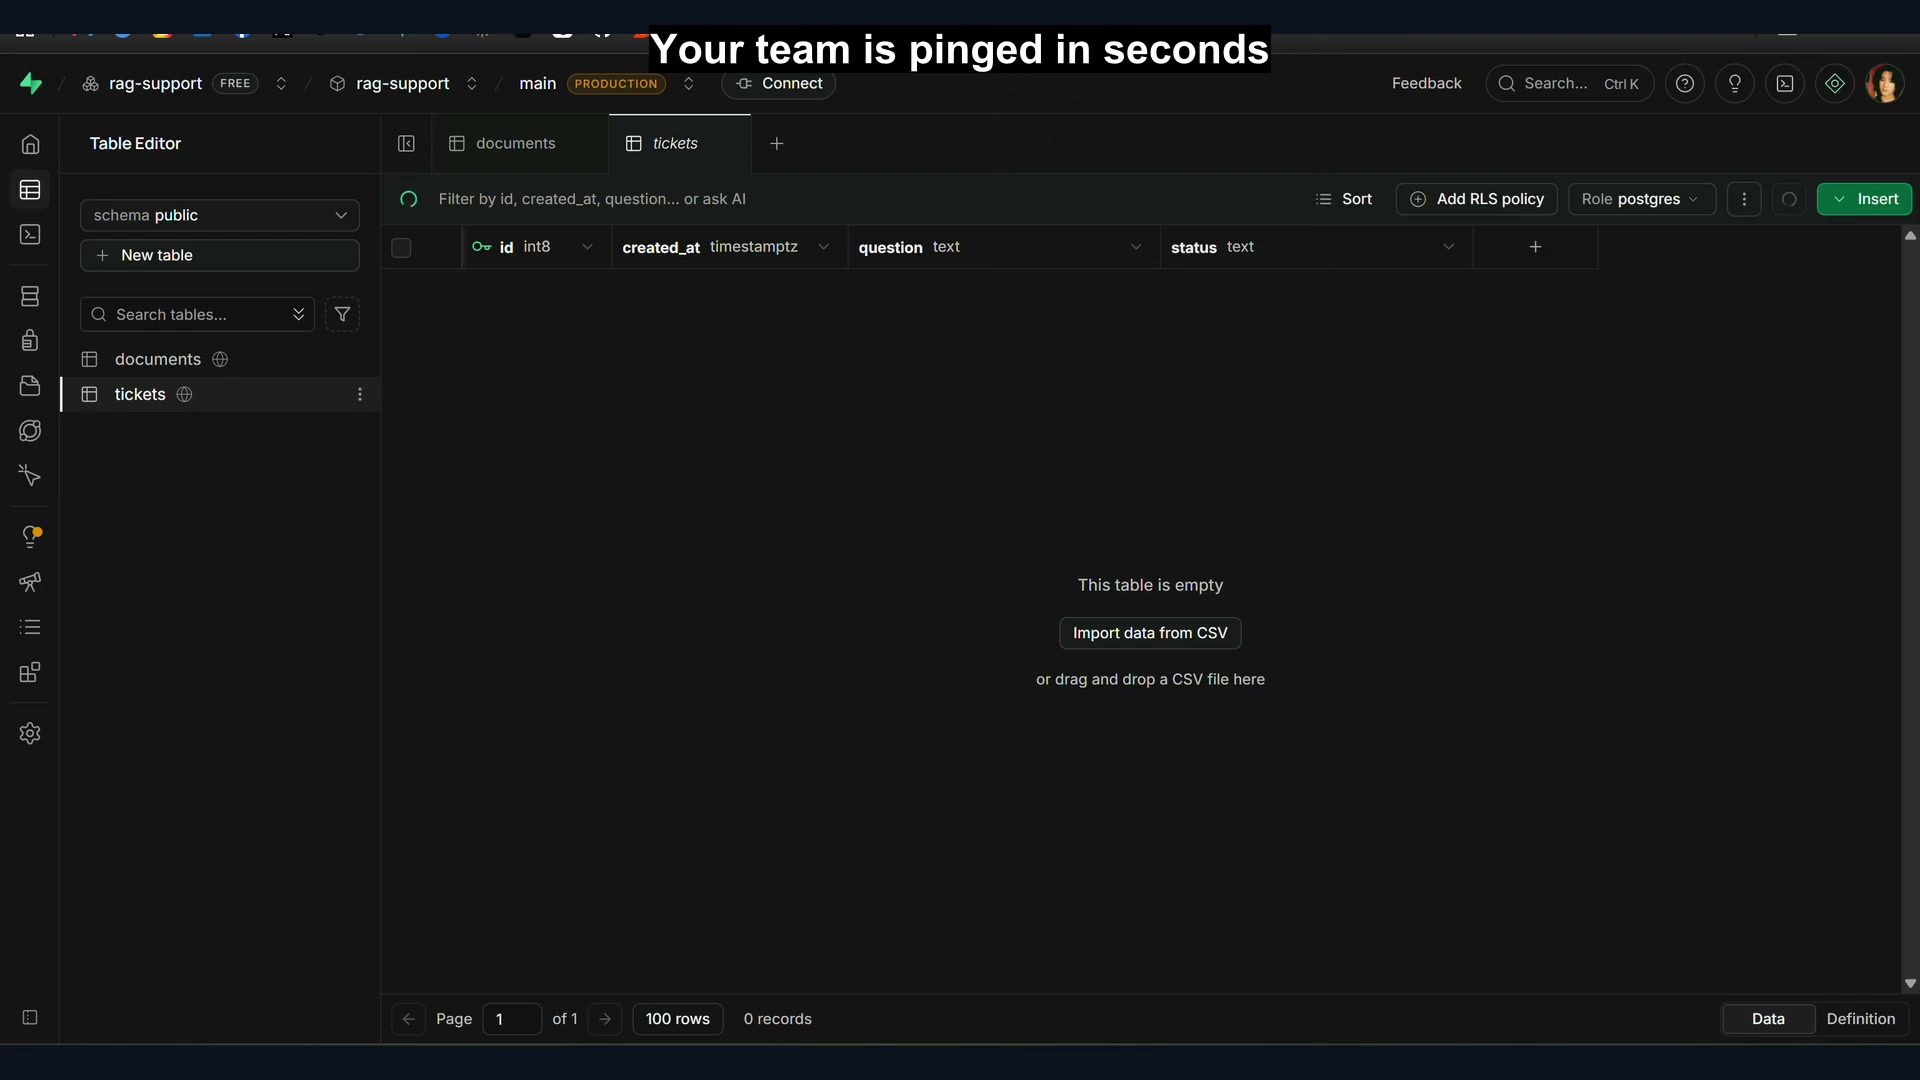
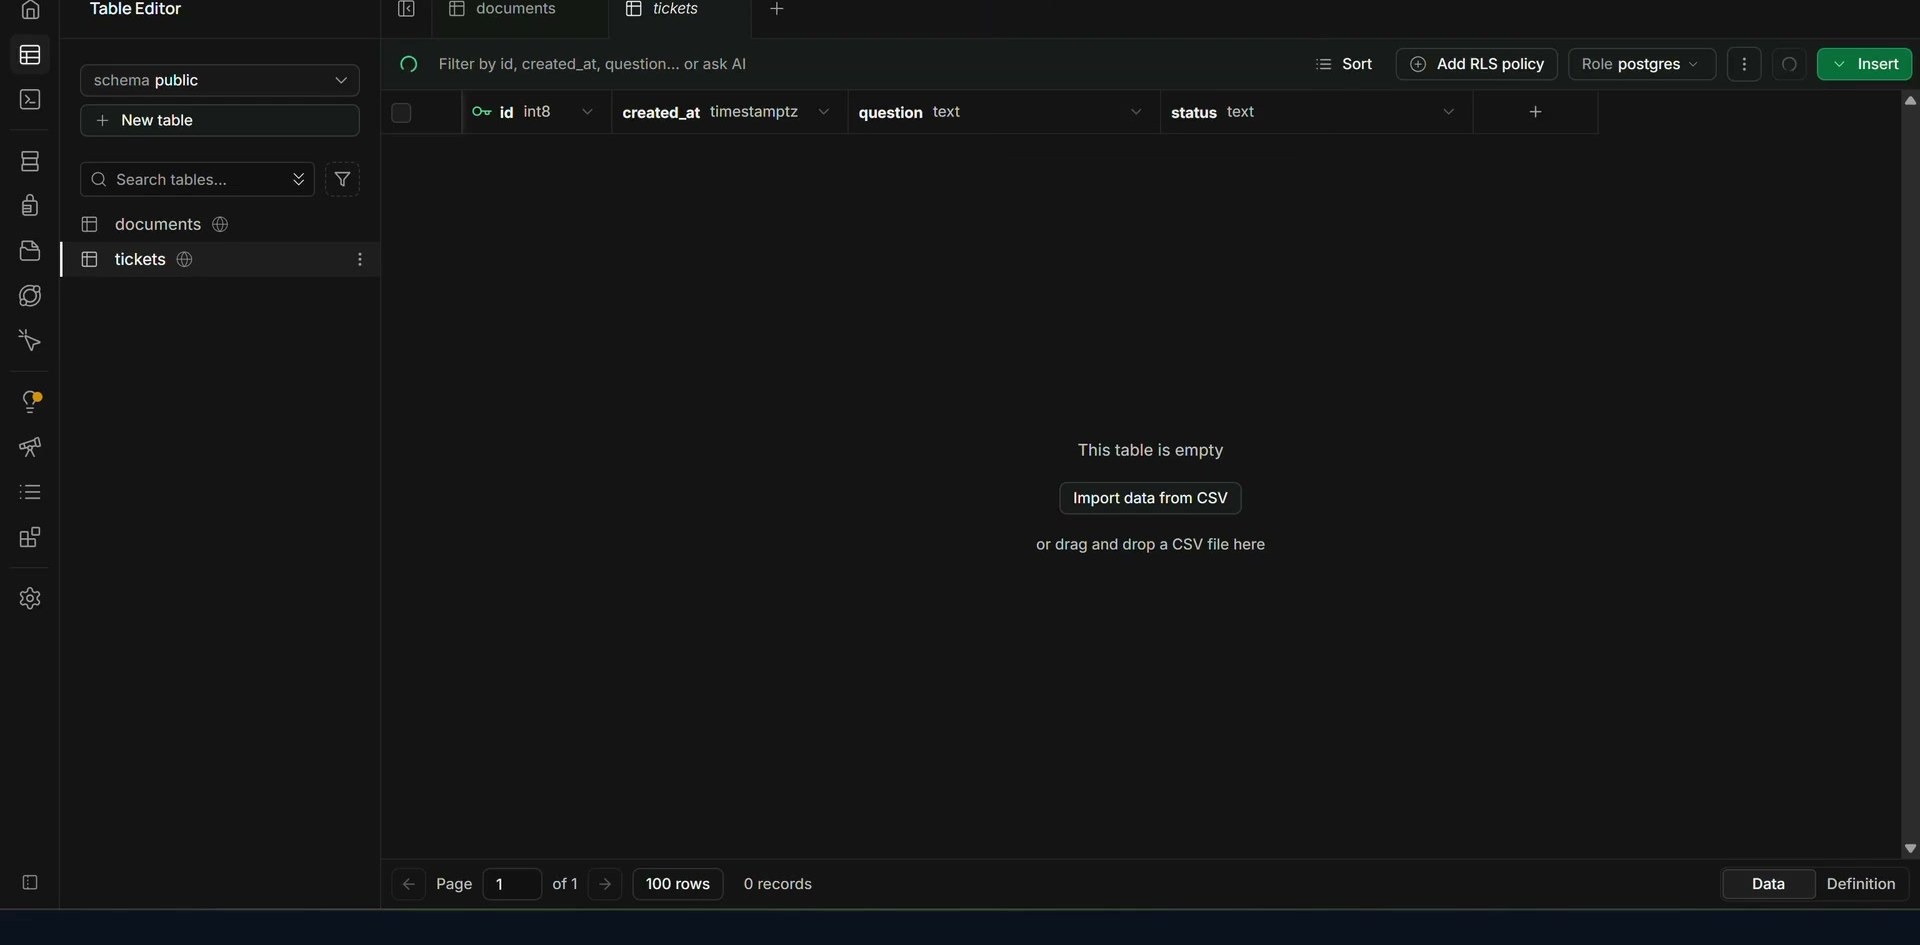
privacy: remove machine paths and identifying content from published docs
The docs are public and quoted real paths from the author's machine, which
leaks the local account name and a recording filename:

  * render.sh no longer hard-codes the ffmpeg directory, the source recording
    or the output directory -- all three come from FF_BIN / SRC / WORK, with
    ffmpeg-on-PATH and the script's own folder as defaults.
  * the QA reports say %LOCALAPPDATA%\n8n and %USERPROFILE%\.n8n instead of
    the literal D:\Tools\n8n and C:\Users\<name>\.n8n.
  * the out-of-KB test question no longer names the university.
  * the two verification screenshots are cropped: the browser chrome with the
    account avatar, and the whole Telegram sidebar with the private chat list,
    are gone. The alert evidence they were taken for is unchanged.

diff --git a/docs/qa-report-2026-09-18.md b/docs/qa-report-2026-09-18.md
@@ -44,7 +44,7 @@ applied during this pass (one of them to a defect introduced by this QA work its
 | In-KB question | **PASS** | "How long does US shipping take?" → "2–4 business days… [faq.md]" (HTTP 200, 5.6 s) |
 | Out-of-KB question → escalation | **PASS** | replied with the fixed handoff sentence; ticket row created |
 | Prompt-injection attempt | **PASS (refused)** | "IGNORE ALL PREVIOUS INSTRUCTIONS…" → handoff sentence, no poem, no data leak |
-| Ticket content correctness | **PASS after fix** | exec 50 → `question = "Can you sponsor the UESTC hackathon with free beans? (unique-ref-4471)"` |
+| Ticket content correctness | **PASS after fix** | exec 50 → `question = "Can you sponsor our student hackathon with free beans? (unique-ref-4471)"` |
 | CRM webhook delivery | **PASS after fix** | webhook.site received `{"event":"support_ticket","question":"…unique-ref-4471","ticket_id":7,"created_at":"…","source":"website_chat"}` |
 | Telegram alert | **PASS** | Telegram API returned `{"ok":true,"result":{"message_id":6,…}}` |
 | Failure isolation | **PASS** | with an invalid CRM URL the run still completed: ticket + reply + alert all succeeded (`onError: continue`) |

diff --git a/docs/qa-report-2026-09-16.md b/docs/qa-report-2026-09-16.md
@@ -33,7 +33,7 @@ protocol, wrong embed URL, unusable Chat Trigger settings, unsaved model credent
 | Item | Value |
 |---|---|
 | Host | Windows 11, git-bash (MSYS), Python 3.13/3.11 |
-| App under test | self-hosted **n8n 2.38.7** (npm-local `D:\Tools\n8n`, SQLite `%USERPROFILE%\.n8n`), UI `http://127.0.0.1:5678` |
+| App under test | self-hosted **n8n 2.38.7** (npm-local `%LOCALAPPDATA%\n8n`, SQLite `%USERPROFILE%\.n8n`), UI `http://127.0.0.1:5678` |
 | Dependencies | n8n nodes: `@n8n/n8n-nodes-langchain` (agent, chatTrigger, lmChatDeepSeek, memoryBufferWindow, vectorStoreSupabase, toolWorkflow, embeddingsOpenAi); `n8n-nodes-base` (formTrigger, supabase, executeWorkflowTrigger) |
 | Datastores | Supabase project `<project-ref>` — tables `documents` (vector 1024), `tickets` |
 | Model providers | DeepSeek `deepseek-chat` (chat), SiliconFlow `BAAI/bge-m3` (embeddings) |

diff --git a/docs/operations.md b/docs/operations.md
@@ -8,7 +8,7 @@ How to run, expose and monitor this bot. Written for whoever operates the instan
 
 | Mode | What you double-click | What you get | When to use it |
 |---|---|---|---|
-| **Local** | `D:\Tools\n8n\n8n-serve.bat` | editor + site widget on `http://127.0.0.1:5678` only | building, testing |
+| **Local** | `%LOCALAPPDATA%\n8n\n8n-serve.bat` | editor + site widget on `http://127.0.0.1:5678` only | building, testing |
 | **Public** | `D:\Tools\n8n\start-public.bat` | the same, plus a public HTTPS URL through a Cloudflare quick tunnel | Telegram channel, demo to a client, testing from a phone |
 | **Stop** | `D:\Tools\n8n\stop-public.bat` | stops n8n **and** the tunnel | end of session |
 

diff --git a/docs/qa-report-2026-09-19-release-gate.md b/docs/qa-report-2026-09-19-release-gate.md
@@ -16,7 +16,7 @@ P2/P3 remain, both documented below, so the product is releasable.
 
 | Item | Value |
 |---|---|
-| n8n | 2.38.7, npm-local `D:\Tools\n8n`, SQLite `C:\Users\leo wang\.n8n` |
+| n8n | 2.38.7, npm-local `%LOCALAPPDATA%\n8n`, SQLite `%USERPROFILE%\.n8n` |
 | Public entry | Cloudflare quick tunnel (name changes per start: `https://jail-identifying-letting-routine.trycloudflare.com` at test time) |
 | Static suite | `python tests/qa_suite.py` → **127 checks, 0 failed** |
 | Live E2E | `python tests/e2e_live.py --tunnel <url>` → **10/10 passed** |
